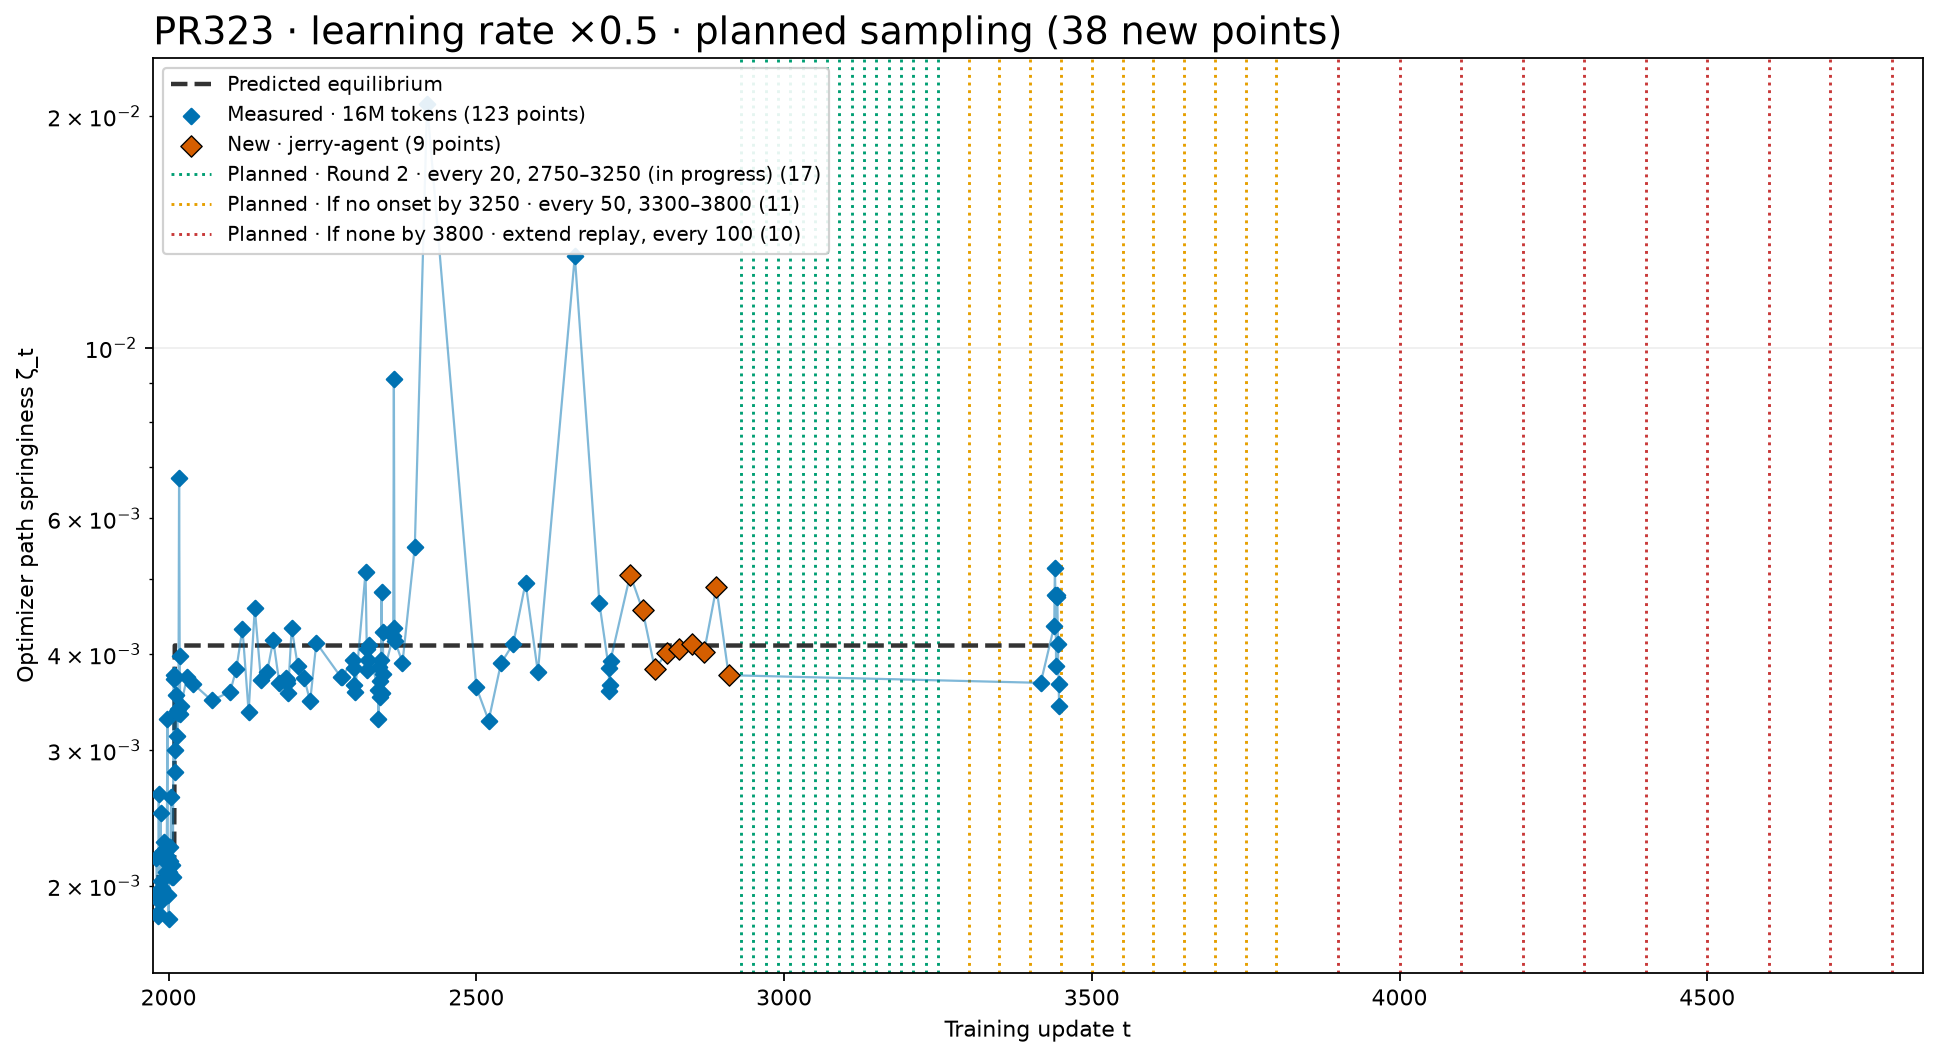
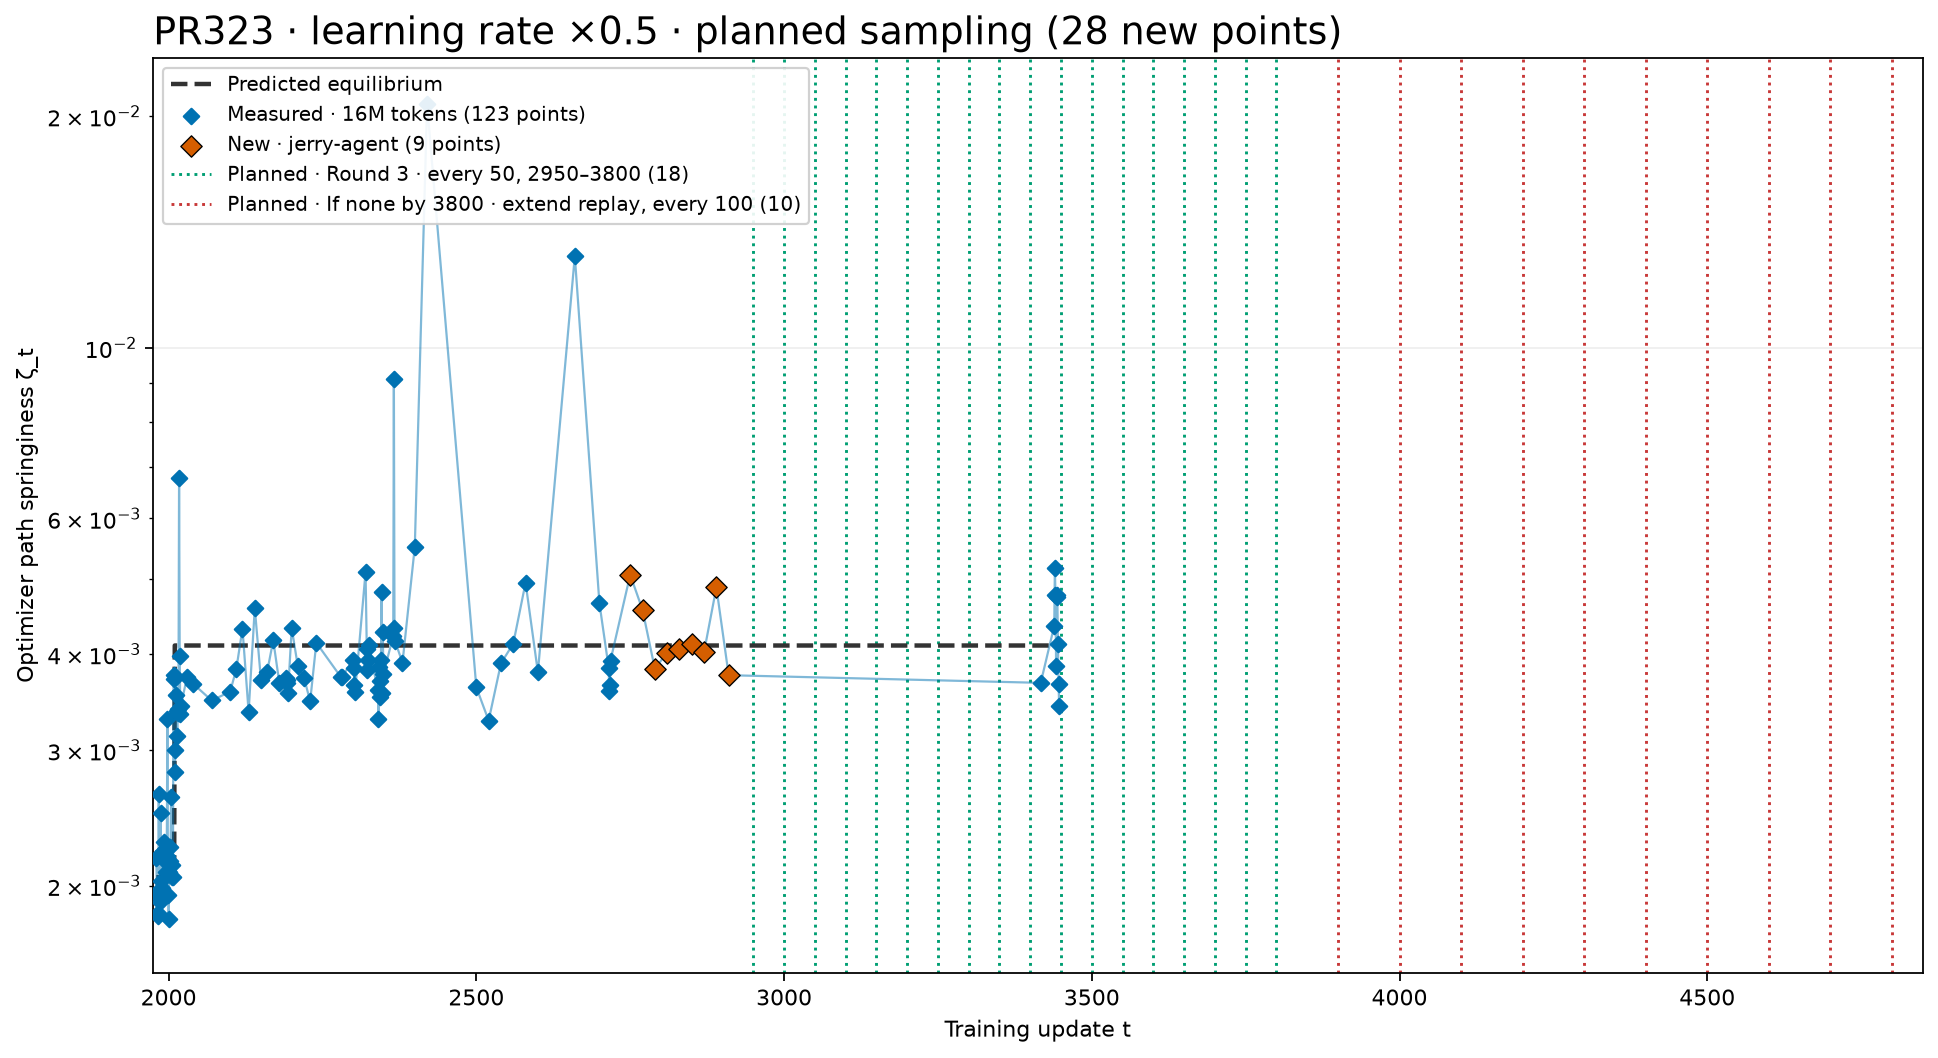
Round 3: LR x0.5 every 50 from 2950 to 3800 instead of every 20; dense only where consistently above

Changed region(s): [[0.0929, 0.0624, 0.4954, 0.8422], [0.4025, 0.8733, 0.4954, 0.9045]]

diff --git a/requests.md b/requests.md
@@ -10,7 +10,7 @@ jerry-agent: please follow [`requests/blog_six_20261028/ROUND3.md`](requests/blo
 - **Not equilibrated yet:** by this rule, increased momentum (2150 and 2175 sit at 0.88 and 0.87) and LR ×0.5 aren't equilibrated yet. The round-2 `higher_zeta` "PASS" used the old majority rule and no longer counts.
 - **How to sample:** first fill in sparsely between existing points (momentum: 2140, 2160, 2185). If ζ is still below or oscillating, go further along in training. Then sample densely where it's consistently above, to verify.
 - **Node A:** momentum in-between points, then further along if needed (`higher_zeta_ext`, snapshots to 2400). Also verify LR ×2 past 2700 (every 40 from 2720 to 3080, saved snapshots).
-- **Node B:** finish LR ×0.5 2750–3250 → if no onset, every 50 from 3300 to 3800 from its snapshots → if still none, `lrhalf_ext` (replay to 4800).
+- **Node B:** LR ×0.5: **stop every-20 sampling after 2910.** Sample every 50 from 2950 to 3800 (sparse, to see whether it's near equilibrium at all), check, and go dense only where it's consistently above → if still none by 3800, `lrhalf_ext` (replay to 4800).
 - **Every 30 minutes:** push points, plus one status line per node under this section.
 
 Reply with an `- answer:` line when both nodes are running.

diff --git a/requests/blog_six_20261028/ROUND3.md b/requests/blog_six_20261028/ROUND3.md
@@ -26,8 +26,8 @@ By this rule, at the start of round 3:
 
 ## Node B
 
-1. Finish `lrhalf` phase 1 (every 20 from 2750 to 3250), then `python3 scripts/check_equilibrium.py lrhalf 2700`.
-2. If there's no onset: measure sparsely from the snapshots you already have, every 50 from 3300 to 3800: `scripts/run_job.sh lrhalf --phase 2 --updates 3300,3350,...,3800`. Then check again, and sample densely (every 10) wherever points are consistently above.
+1. **Change of plan: stop the every-20 sampling after 2910** (finish any point already in progress). From 2950 on, sample **every 50 to 3800** to see whether LR ×0.5 is near equilibrium at all: `scripts/run_job.sh lrhalf --phase 2 --updates 2950,3000,3050,3100,3150,3200,3250,3300,3350,3400,3450,3500,3550,3600,3650,3700,3750,3800`. If phase 1 has already exited, this uses its saved snapshots; if it's still running, stop it after the current point first. Then run `python3 scripts/check_equilibrium.py lrhalf 2700`.
+2. Sample densely (every 10) **only** where points are consistently above the line and close to it, to verify.
 3. If there's still no onset by 3800: `scripts/run_job.sh lrhalf_ext --phase 1` (replay to 4800, snapshots every 10 from 3810), then sparse every 100 from 3900, then dense where consistently above.
 
 ## Not in scope
